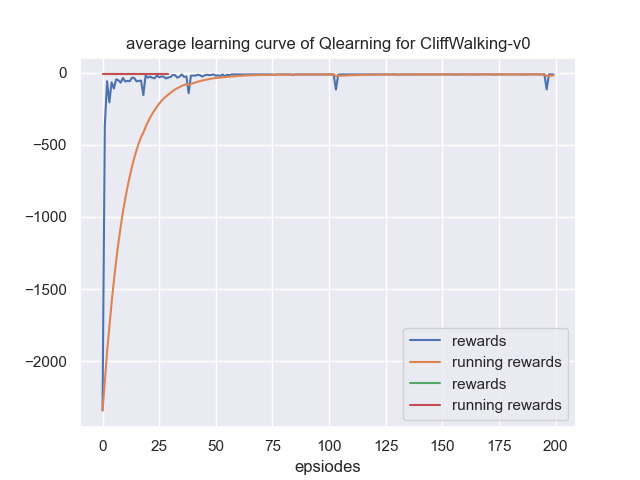
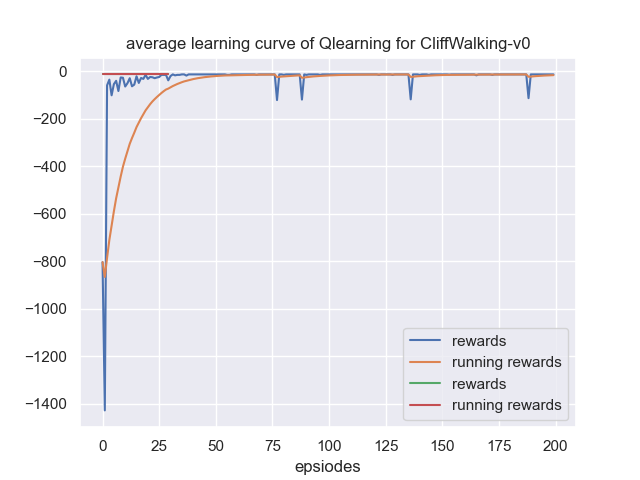
完成实验3

diff --git a/3-q-learning/agent.py b/3-q-learning/agent.py
@@ -4,14 +4,14 @@ import math
 
 class QLearning(object):
     def __init__(self, state_dim, action_dim, cfg):
-        self.action_dim=action_dim #行动的维度
-        self.lr=cfg.lr #学习率
-        self.gamma=cfg.gamma
-        self.epsilon=0
-        self.sample_count=0
+        self.action_dim = action_dim #行动的维度
+        self.lr = cfg.lr #学习率
+        self.gamma = cfg.gamma
         self.epsilon_start=cfg.epsilon_start
         self.epsilon_end=cfg.epsilon_end
         self.epsilon_decay=cfg.epsilon_decay
+        self.sample_count = 0
+        self.epsilon = 0.5
         self.Q_table = np.zeros((state_dim, action_dim))  # Q表格
 
     # 训练过程中智能体选择动作的方法
@@ -19,11 +19,9 @@ class QLearning(object):
         ####################### 智能体的决策函数，需要完成Q表格方法（需要完成）#######################
         self.sample_count += 1
         
-        # e-greedy策略
-        # epsilon是会递减的，这里选择指数递减
+        # e-greedy策略，选择a_{t+1}     
         self.epsilon = self.epsilon_end+(self.epsilon_start-self.epsilon_end)\
-            *math.exp(-1.*self.sample_count/self.epsilon_decay)
-        
+            *math.exp(-1.*self.sample_count/self.epsilon_decay)   
         if np.random.uniform(0,1) > self.epsilon:
             action = np.argmax(self.Q_table[state])  #选择Q(s,a)最大对应的动作
         else:
@@ -31,14 +29,23 @@ class QLearning(object):
         return action
 
     # 学习过程中更新Q表格
-    # Qlearning传入的参数为s、a、r、s，比sarsa少了下一个状态的动作
-    def update(self, state, action, reward, next_state, done):
+    # Qlearning传入的参数为s、a、r、s
+    def Q_update(self, state, action, reward, next_state, done):
         ############################## Q表格的更新方法（需要完成）##################################
         Q_predict = self.Q_table[state][action]
-        if done: Q_target=reward
-        else: Q_target=reward+self.gamma*np.max(self.Q_table[next_state])
+        if done: Q_target = reward
+        else: Q_target = reward + self.gamma*np.max(self.Q_table[next_state])
+        # 更新Q表格
+        self.Q_table[state][action] += self.lr*(Q_target-Q_predict)
         
-        self.Q_table[state][action]+=self.lr*(Q_target-Q_predict)
+    # SARSA传入的参数为s、a、r、s、a
+    def S_update(self, state, action, reward, next_state, next_action, done):
+        ############################## Q表格的更新方法（需要完成）##################################
+        Q_predict = self.Q_table[state][action]
+        if done: Q_target = reward
+        else: Q_target = reward + self.gamma*(self.Q_table[next_state][next_action])
+        # 更新Q表格
+        self.Q_table[state][action] += self.lr*(Q_target-Q_predict)
         
     def predict(self,state):
         action=np.argmax(self.Q_table[state])

diff --git a/3-q-learning/main.py b/3-q-learning/main.py
@@ -23,7 +23,7 @@ class QlearningConfig:
         self.epsilon_start = 0.95 #e-greedy策略中初始epsilon
         self.epsilon_end = 0.01 #e-greedy策略中的终止epsilon
         self.epsilon_decay = 300 #e-greedy策略中epsilon的衰减率
-        self.lr = 0.5 #学习率
+        self.lr = 0.8 #学习率
         self.render_frqc = 30 # 仿真渲染频率
         self.device = torch.device(
             "cuda" if torch.cuda.is_available() else "cpu")  # check gpu
@@ -47,25 +47,28 @@ def train(cfg, env, agent):
     for i_ep in range(cfg.train_eps):
         ep_reward = 0  # 记录每个episode的reward
         state = env.reset()  # 重置环境, 重新开一局（即开始新的一个episode）
+        # action = agent.choose_action(state)  # 根据算法选择一个动作
         while True:
             action = agent.choose_action(state)  # 根据算法选择一个动作
             next_state, reward, done, _ = env.step(action)  # 与环境进行一次动作交互
+            next_action = agent.choose_action(next_state)  # SARSA需要a_{t+1}
             if i_ep % cfg.render_frqc == 0 and i_ep != 0:
                 env.render() # 渲染动作并显示
-            agent.update(state, action, reward, next_state,
-                         done)  # Q-learning算法更新
+            # Q-learning算法更新
+            agent.Q_update(state, action, reward, next_state, done)  
+            # SARSA算法更新
+            # agent.S_update(state, action, reward, next_state, next_action, done)
             state = next_state  # 存储上一个观察值
             ep_reward += reward
-            if done:
-                break
+            # action = next_action  # SARSA需要修改动作
+            if done: break
         rewards.append(ep_reward)
         if running_rewards:
             running_rewards.append(running_rewards[-1] * 0.9 + ep_reward * 0.1)
         else:
             running_rewards.append(ep_reward)
         
-        print("Episode:{}/{}: reward:{:.1f}".format(i_ep + 1, cfg.train_eps,
-                                                    ep_reward))
+        print("Episode:{}/{}: reward:{:.1f}".format(i_ep + 1, cfg.train_eps, ep_reward))
     print('Complete training！')
     return rewards, running_rewards
 
